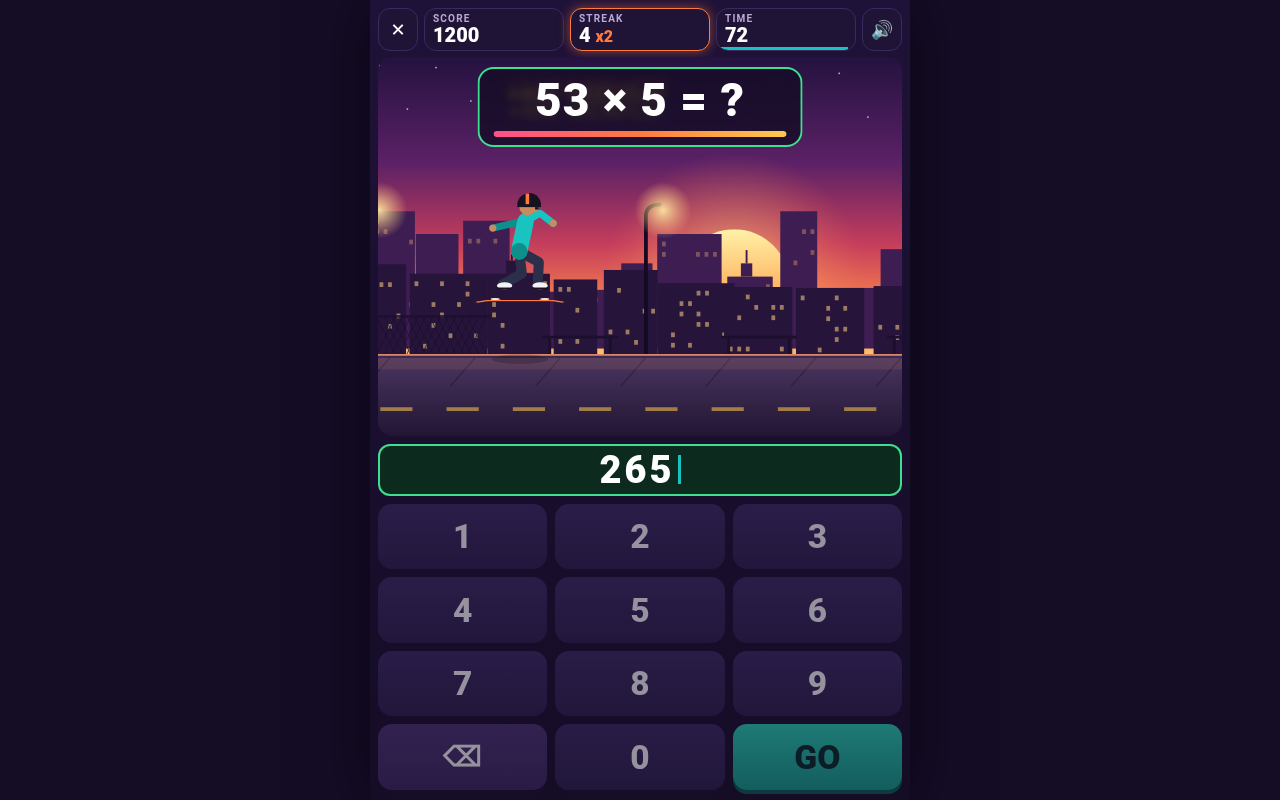
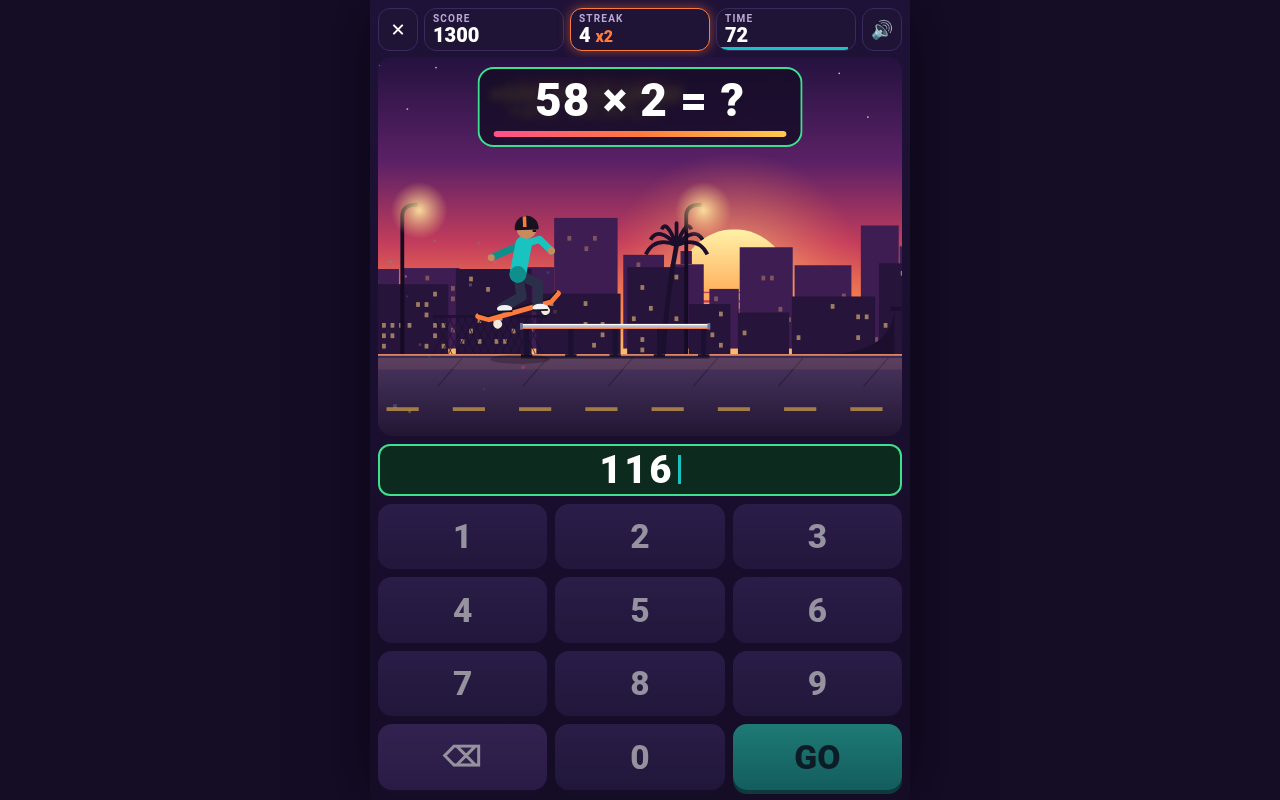
Add rail grinds (50-50, boardslide, feeble) to trick rotation; cache-bust v=2

diff --git a/game.js b/game.js
@@ -33,6 +33,11 @@
         { id: 'ollie', name: 'OLLIE' }, { id: 'kickflip', name: 'KICKFLIP' },
         { id: 'shuvit', name: 'SHOVE-IT' }, { id: 'heelflip', name: 'HEELFLIP' }
       ],
+      // grinds: contact = local height (rider units) of the part that sits on the rail
+      grinds: [
+        { id: 'g5050', name: '50-50 GRIND', grind: true, contact: 6, style: { boardRot: 0, bodyRot: -0.05 } },
+        { id: 'gboard', name: 'BOARDSLIDE', grind: true, contact: 8, style: { spinX: 0.26, bodyRot: -0.1, px: -2 } }
+      ],
       drawVehicle: drawSkateboard
     },
     {
@@ -42,6 +47,10 @@
       tricks: [
         { id: 'hop', name: 'BUNNY HOP' }, { id: 'tailwhip', name: 'TAILWHIP' },
         { id: 'barspin', name: 'BAR SPIN' }, { id: 'threesixty', name: '360' }
+      ],
+      grinds: [
+        { id: 'gfeeble', name: 'FEEBLE GRIND', grind: true, contact: 5, style: { boardRot: -0.13, bodyRot: -0.08 } },
+        { id: 's5050', name: '50-50 GRIND', grind: true, contact: 7, style: { boardRot: 0, bodyRot: -0.04 } }
       ],
       drawVehicle: drawScooter
     }
@@ -135,6 +144,7 @@
     trick: null, trickT: 0, wipeT: -1, particles: [], pops: [], t: 0
   };
   window.__tt = { G: G, settings: settings, LEVELS: LEVELS, RIDERS: RIDERS };
+  window.__tt.forceGrind = false;
 
   function level() { return LEVELS[settings.level - 1]; }
   function rider() { return riderById(settings.rider); }
@@ -393,6 +403,52 @@
     }
     return pose;
   }
+  // ---------- grinds ----------
+  // Timeline (seconds): pop 0-0.12, ollie up 0.12-0.28, slide 0.28-0.68, hop off 0.68-0.92.
+  var GRIND = { pop: 0.12, land: 0.28, off: 0.68, done: 0.92, phase: 0.98, railH: 34, chance: 0.24, pity: 4, streakBonus: 50 };
+  function grindTravel(t) { // distance covered since grind start
+    var v = G.grindV, s = G.speed; if (t <= 0.7) return v * t;
+    var u = Math.min(t - 0.7, 0.3); return v * 0.7 + v * u + (s - v) * u * u / 0.6 + (t > 1 ? s * (t - 1) : 0);
+  }
+  function startGrind() {
+    G.grindV = clamp(G.gateDist / 0.5, G.speed, G.speed * 2.2);
+    G.grindTrav = 0;
+    G.railL = grindTravel(GRIND.land) - 18;   // rail in "travel" coords, rider contact = 0
+    G.railR = grindTravel(GRIND.off) + 18;
+  }
+  function grindPose(g, t) {
+    var A = GRIND.railH / RIDER_SCALE - g.contact, st = g.style, pose = { crouch: 0.4 }, k = 0;
+    if (t < GRIND.pop) { pose.crouch = 0.3 + t / GRIND.pop * 0.7; pose.air = 0; }
+    else if (t < GRIND.land) { var u = (t - GRIND.pop) / (GRIND.land - GRIND.pop); pose.air = A * easeOut(u) + Math.sin(Math.PI * u) * 12; pose.boardRot = -0.35 * Math.sin(Math.PI * u); k = u; pose.armsUp = 0.3 * u; }
+    else if (t < GRIND.off) { pose.air = A + Math.sin(t * 90) * 0.35; pose.crouch = 0.5; k = 1; pose.armsUp = 0.35; }
+    else if (t < GRIND.done) { var w = (t - GRIND.off) / (GRIND.done - GRIND.off); pose.air = A * (1 - w) + Math.sin(Math.PI * w) * 16; k = Math.max(0, 1 - w * 2.5); pose.boardRot = w < 0.4 ? -0.3 * Math.sin(Math.PI * w / 0.4) : 0; pose.crouch = w > 0.8 ? 0.7 : 0.35; pose.armsUp = 0.3 * (1 - w); }
+    else { pose.air = 0; pose.crouch = 0.5; }
+    if (k > 0) {
+      if (st.spinX != null) pose.spinX = 1 + (st.spinX - 1) * k;
+      if (st.boardRot) pose.boardRot = (pose.boardRot || 0) * (1 - k) + st.boardRot * k;
+      if (st.bodyRot) pose.bodyRot = st.bodyRot * k;
+      if (st.px) pose.px = st.px * k;
+    }
+    return pose;
+  }
+  function drawRail(rx) {
+    var a = rx + (G.railL - G.grindTrav), b = rx + (G.railR - G.grindTrav), y = GROUND_Y - GRIND.railH;
+    if (b < -20 || a > VW + 20) return;
+    ctx.save(); ctx.globalAlpha = clamp(G.trickT / 0.08, 0, 1);
+    ctx.fillStyle = 'rgba(0,0,0,0.3)'; ctx.fillRect(a, GROUND_Y - 2, b - a, 3);
+    ctx.fillStyle = '#1a1030';
+    var n = Math.max(2, Math.round((b - a) / 55));
+    for (var i = 0; i <= n; i++) { var px = a + 6 + (b - a - 12) * i / n; ctx.fillRect(px - 2.5, y, 5, GRIND.railH - 2); ctx.fillRect(px - 6, GROUND_Y - 4, 12, 3); }
+    ctx.fillStyle = '#b8bccf'; ctx.fillRect(a, y - 2, b - a, 5);
+    ctx.fillStyle = '#ffffff'; ctx.fillRect(a, y - 2, b - a, 1.4);
+    ctx.fillStyle = '#ff7a3d'; ctx.fillRect(a, y + 2, b - a, 1.2);
+    ctx.fillStyle = '#6f7390'; ctx.fillRect(a - 1, y - 3, 3, 7); ctx.fillRect(b - 2, y - 3, 3, 7);
+    ctx.restore();
+  }
+  function sparks(x, y, n) {
+    for (var i = 0; i < n; i++) G.particles.push({ x: x + (Math.random() - 0.5) * 16, y: y, vx: -60 - Math.random() * 140, vy: -40 - Math.random() * 90, life: 0.25 + Math.random() * 0.25, t: 0, c: pick(['#fff3b0', '#ffc94d', '#ff9a3d', '#ffffff']), r: 1.8 + Math.random() * 2 });
+  }
+
   function wipePose(p) {
     var hit = clamp(p / 0.22, 0, 1), rec = clamp((p - 0.78) / 0.22, 0, 1);
     var fall = easeOut(hit) * (1 - rec);
@@ -420,7 +476,7 @@
   function startRound() {
     audio();
     G.screen = 'play'; G.score = 0; G.streak = 0; G.topStreak = 0; G.correct = 0; G.wrong = 0; G.timeLeft = ROUND_SECONDS;
-    G.roundMissed = []; G.lastKey = null; G.particles = []; G.pops = []; G.trick = null; G.wipeT = -1; G.gateState = 'none'; G.prob = null; G.paused = false;
+    G.roundMissed = []; G.lastKey = null; G.particles = []; G.pops = []; G.trick = null; G.wipeT = -1; G.gateState = 'none'; G.prob = null; G.paused = false; G.sinceGrind = 0; G.lastWasGrind = false;
     el.menu.classList.remove('show'); el.end.classList.remove('show'); el.pause.classList.remove('show');
     setPhase('ready'); el.banner.className = ''; el.prompt.textContent = 'READY…'; el.gateBar.style.width = '0%';
     clearInput(); updateHUD(); applyMode();
@@ -449,9 +505,17 @@
     var p = G.prob, frac = clamp(G.gateDist / G.gateTotal, 0, 1);
     G.streak++; G.topStreak = Math.max(G.topStreak, G.streak); G.correct++;
     var m = multiplier(), pts = Math.round((100 + Math.round(frac * 100)) * m);
-    G.score += pts; recordHit(p);
-    var r = rider(); G.trick = G.streak < 3 ? r.tricks[0] : pick(r.tricks.slice(1)); G.trickT = 0;
+    var r = rider(), grinds = r.grinds || [];
+    var doGrind = grinds.length && G.lastWasGrind !== true && (window.__tt.forceGrind || Math.random() < GRIND.chance || G.sinceGrind >= GRIND.pity);
+    if (doGrind) {
+      G.trick = pick(grinds); G.sinceGrind = 0; G.lastWasGrind = true;
+      if (G.streak >= 3) pts += GRIND.streakBonus * m;   // small grind bonus on longer streaks
+    } else {
+      G.trick = G.streak < 3 ? r.tricks[0] : pick(r.tricks.slice(1)); G.sinceGrind = (G.sinceGrind || 0) + 1; G.lastWasGrind = false;
+    }
+    G.score += pts; recordHit(p); G.trickT = 0;
     G.gateState = 'good'; G.boostSpeed = Math.max(G.speed, G.gateDist / 0.38);
+    if (G.trick.grind) startGrind();
     el.banner.className = 'right'; flashDisplay('flashR');
     if (settings.mode === 'choices') el.choices.forEach(function (b) { if (Number(b.textContent) === p.answer) b.classList.add('good'); });
     pop('+' + pts + '  ' + G.trick.name, '#ffc94d');
@@ -459,7 +523,7 @@
     sfx.good(); setPhase('boost'); updateHUD();
   }
   function onWrong(reason, val) {
-    var p = G.prob; G.streak = 0; G.wrong++; recordMiss(p);
+    var p = G.prob; G.streak = 0; G.wrong++; recordMiss(p); G.lastWasGrind = false;
     if (!G.roundMissed.some(function (f) { return f.key === p.key; })) G.roundMissed.push({ key: p.key, text: p.reveal });
     G.gateState = 'bad'; G.wipeT = 0; G.trick = null;
     el.banner.className = 'wrong'; el.prompt.innerHTML = p.revealHTML; flashDisplay('flashW');
@@ -494,7 +558,8 @@
     G.phaseT += dt;
     var spd = G.screen === 'play' ? G.speed : BASE_SPEED * 0.8;
     if (playing) {
-      G.timeLeft -= dt;
+      // grinds run slightly longer than other tricks; don't charge the round clock for the extra
+      if (!(G.phase === 'boost' && G.trick && G.trick.grind && G.phaseT > 0.85)) G.timeLeft -= dt;
       if (G.timeLeft <= 0) { G.timeLeft = 0; updateHUD(); endRound(); return; }
       if (G.phase === 'ready') {
         G.speed = BASE_SPEED; if (G.phaseT > 0.6 && el.prompt.textContent !== 'GO!') { el.prompt.textContent = 'GO!'; sfx.go(); }
@@ -502,6 +567,15 @@
       } else if (G.phase === 'ask') {
         G.gateDist -= G.speed * dt; el.gateBar.style.width = (clamp(G.gateDist / G.gateTotal, 0, 1) * 100) + '%';
         if (G.gateDist <= 0) { G.gateDist = 0; onWrong('time'); }
+      } else if (G.phase === 'boost' && G.trick && G.trick.grind) {
+        var t0 = G.trickT; G.trickT += dt;
+        var d = grindTravel(G.trickT) - grindTravel(t0); spd = d / dt;
+        G.grindTrav += d; G.gateDist -= d;
+        if (G.gateDist <= 0 && !G.passed) { G.passed = true; burst(riderX() + 10, GROUND_Y - 70, 18, ['#19c3c0', '#ffc94d', '#ff4f8b', '#fff'], 110); }
+        if (G.trickT > GRIND.land && G.trickT < GRIND.off) sparks(riderX() - 10, GROUND_Y - GRIND.railH, 4);
+        if (G.trickT >= GRIND.land && t0 < GRIND.land) { sparks(riderX(), GROUND_Y - GRIND.railH, 10); tone(1400, 0.05, 'square', 0.03); }
+        if (G.gateDist > 0 && G.phaseT > 0.7) G.gateFade = Math.max(0, 1 - (G.phaseT - 0.7) / 0.25);
+        if (G.phaseT > GRIND.phase) { G.passed = false; G.trick = null; newProblem(); }
       } else if (G.phase === 'boost') {
         spd = G.gateDist > 0 ? G.boostSpeed : G.speed + (G.boostSpeed - G.speed) * Math.max(0, 1 - G.phaseT * 3);
         G.gateDist -= spd * dt; G.trickT += dt;
@@ -535,8 +609,10 @@
       var gx = rx + 12 + G.gateDist;
       if (gx < VW + 80 && gx > -80) drawGate(gx);
     }
+    if (G.phase === 'boost' && G.trick && G.trick.grind) drawRail(rx);
     var r = rider(), pose;
     if (G.phase === 'wipe' && G.wipeT >= 0) pose = wipePose(clamp(G.wipeT / 1.7, 0, 1));
+    else if (G.trick && G.phase === 'boost' && G.trick.grind) pose = grindPose(G.trick, G.trickT);
     else if (G.trick && G.phase === 'boost') pose = trickPose(G.trick.id, clamp(G.trickT / 0.8, 0, 1));
     else pose = idlePose(G.t);
     drawRider(ctx, rx, GROUND_Y, RIDER_SCALE, r, pose);

diff --git a/index.html b/index.html
@@ -10,7 +10,7 @@
 <title>Times Tricks — Multiplication Street Runner</title>
 <link rel="icon" href="icon.svg" type="image/svg+xml" />
 <link rel="apple-touch-icon" href="apple-touch-icon.png" />
-<link rel="stylesheet" href="style.css" />
+<link rel="stylesheet" href="style.css?v=2" />
 </head>
 <body>
 <div id="app">
@@ -89,6 +89,6 @@
     <div class="panel small"><h2 class="endTitle">PAUSED</h2><button id="resumeBtn" class="big">RESUME ▶</button></div>
   </div>
 </div>
-<script src="game.js"></script>
+<script src="game.js?v=2"></script>
 </body>
 </html>

diff --git a/README.md b/README.md
@@ -11,7 +11,8 @@ Plain static HTML/CSS/JS with no build step, no external requests, no ads, no tr
 1. Pick a ride, a level, and an answer mode (number pad or 3 choices).
 2. Tap **Drop In** (or press Enter).
 3. Type the answer on the pad (or keyboard digits + Enter) before the gate bar runs out. In choices mode tap an answer (or press 1 / 2 / 3).
-4. Rounds last 75 seconds. Streaks raise the multiplier (x2 at 3, x3 at 6, x4 at 9, x5 at 12) and speed things up slightly.
+4. About 1 in 4 tricks is a **rail grind**: a rail pops up, you ollie onto it, slide with sparks, and hop off. Skateboard: 50-50 or boardslide. Scooter: feeble or 50-50. On a streak of 3+ a grind adds a small bonus (+50 × multiplier).
+5. Rounds last 75 seconds. Streaks raise the multiplier (x2 at 3, x3 at 6, x4 at 9, x5 at 12) and speed things up slightly.
 
 ## Levels
 
@@ -29,7 +30,7 @@ Plain static HTML/CSS/JS with no build step, no external requests, no ads, no tr
 
 ## Adding a new rider
 
-Add an entry to `RIDERS` in `game.js`: colours, a `stance` (foot/hip/hand positions), a list of `tricks`, and a `drawVehicle(ctx, pose, rider)` function. The picker, saving, and gameplay pick it up automatically.
+Add an entry to `RIDERS` in `game.js`: colours, a `stance` (foot/hip/hand positions), a list of `tricks`, optional `grinds` (with the rail contact height), and a `drawVehicle(ctx, pose, rider)` function. The picker, saving, and gameplay pick it up automatically.
 
 ## Files
 
